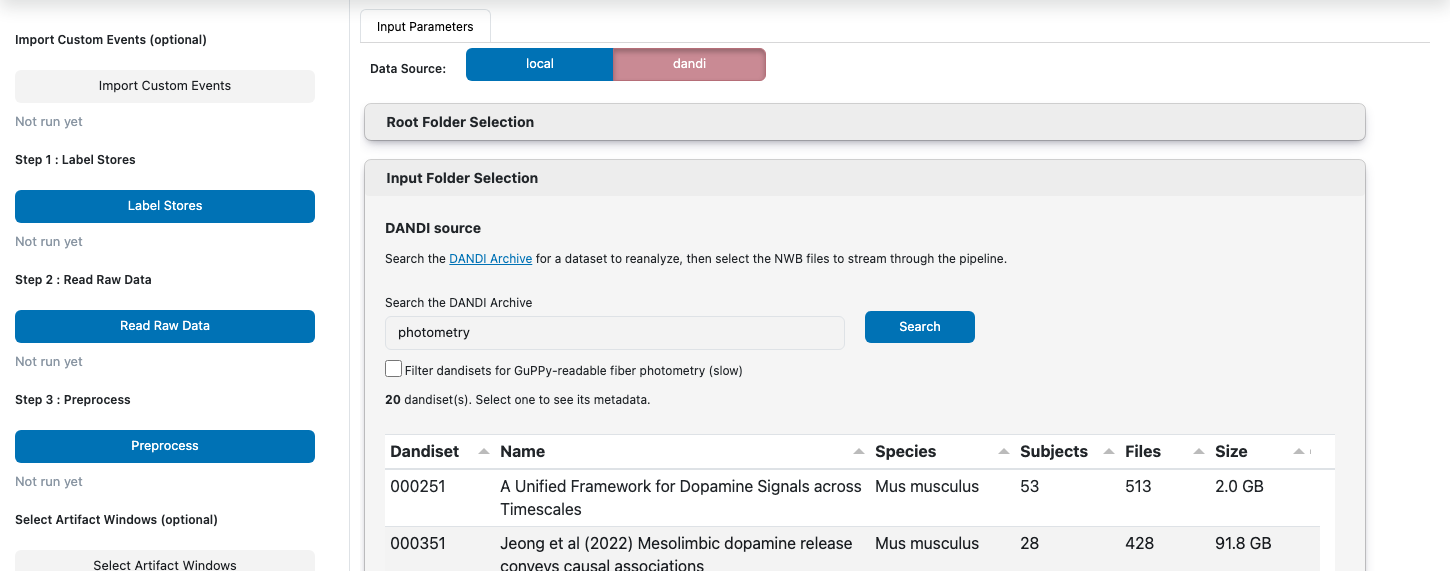
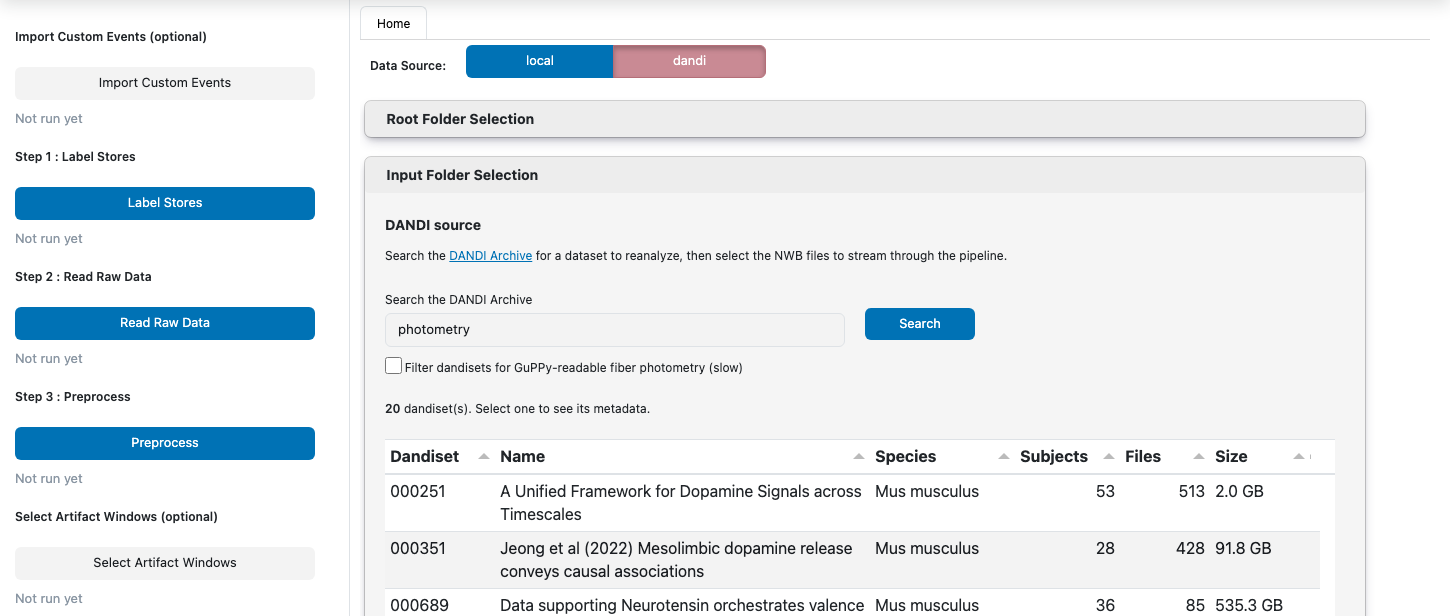
Retake the screenshots the Home tab changes after rebasing onto #592
Anchor the DANDI source shot on the Home tab, since #592's crop looked for
the old Input Parameters tab text.

diff --git a/docs/take_screenshots.py b/docs/take_screenshots.py
@@ -820,8 +820,8 @@ def screenshot_dandi_source_selection(page: Page, tmp_path: Path) -> None:
     page.get_by_text("Select one to see its metadata").first.wait_for(timeout=60000)
     page.wait_for_timeout(1500)
     status_line = page.get_by_text("Select one to see its metadata").first.bounding_box()
-    # Start at the homepage's tab strip, so the shot shows the toggle sits on the Input Parameters tab.
-    top = page.get_by_text("Input Parameters", exact=True).first.bounding_box()["y"] - 6
+    # Start at the homepage's tab strip, so the shot shows the toggle sits on the Home tab.
+    top = page.get_by_text("Home", exact=True).first.bounding_box()["y"] - 6
     page.screenshot(
         path=OUTPUT_DIR / "dandi_source_selection.png",
         clip={
